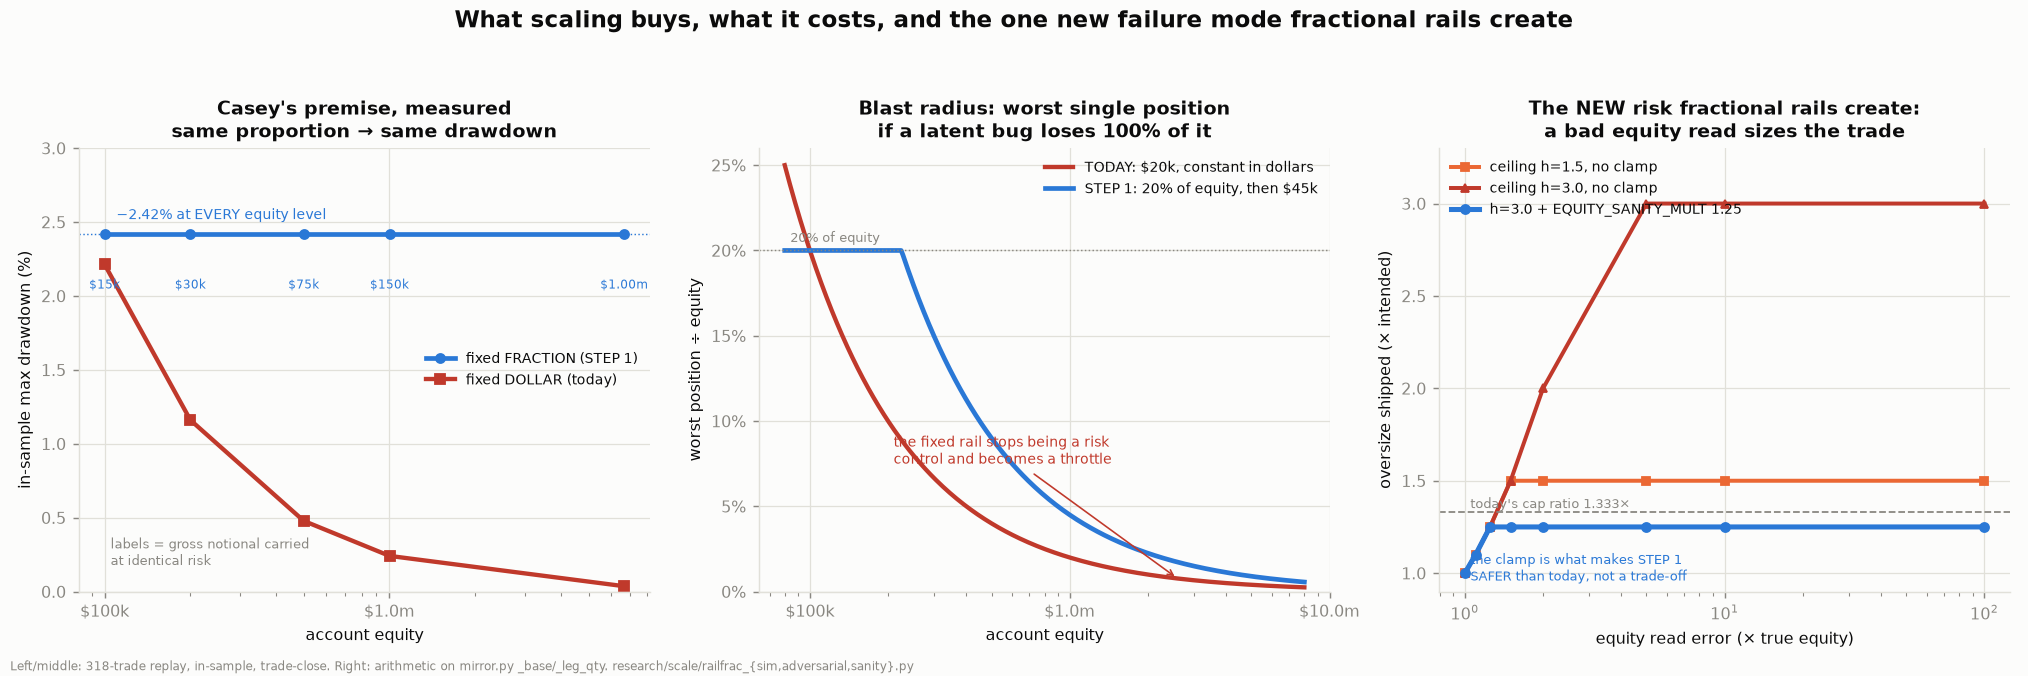
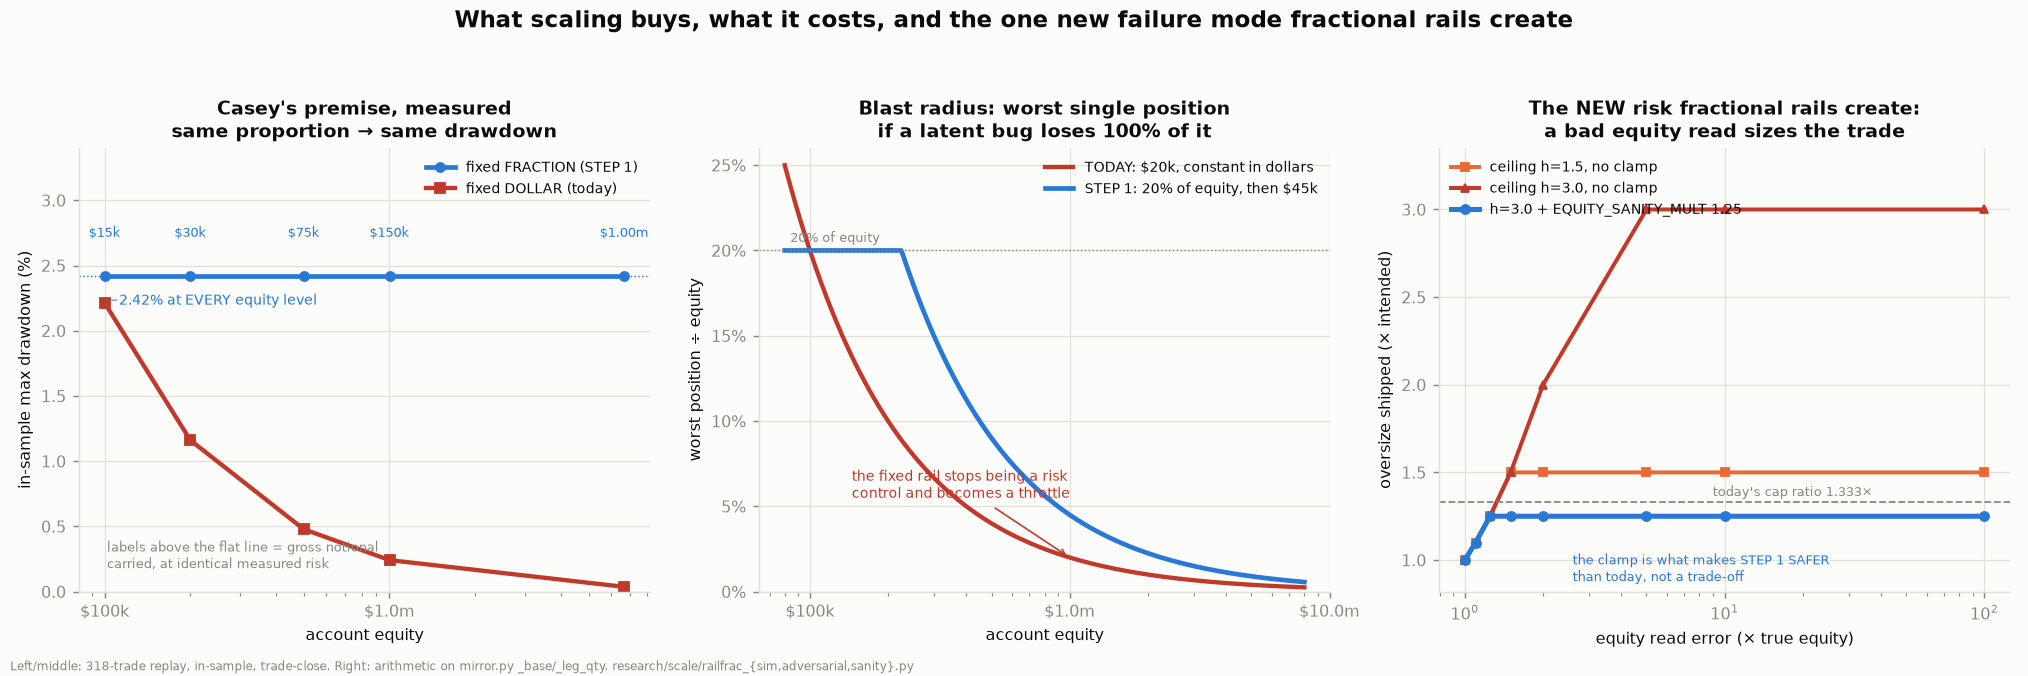
research/scale: fee-sensitivity sweep for the vol-target candidate
Landed after the previous commit was already staged - the study is still
running and writing.

Claude-Session: https://claude.ai/code/session_01UKA46pUo7nPTJWjLQb2a24

diff --git a/btc-paper-engine/research/scale/railfrac_charts.py b/btc-paper-engine/research/scale/railfrac_charts.py
@@ -64,15 +64,16 @@ a1.plot(eq, step2, color=AQUA, lw=2.0, ls="-.", label="STEP 2 (the free 2×)")
 a1.axhline(1_000_000, color=INK, lw=0.9, ls=":")
 a1.text(8.2e4, 1.08e6, "$1m of gross notional", fontsize=7.6, color=INK)
 a1.scatter([E0], [15_000], color=RED, s=46, zorder=6)
-a1.annotate("live today\n$15,000", (E0, 15_000), (1.55e5, 5_400),
+a1.annotate("live today $15,000\n(STEP 1 ships the same)", (E0, 15_000), (1.9e5, 6_200),
             fontsize=7.6, color=RED, arrowprops=dict(arrowstyle="-", color=RED, lw=0.8))
-a1.annotate("STEP 1 stops being proportional\nhere ($225k) — by design:\n"
-            "cap_clamp RED fires every entry",
-            (225_000, 45_000), (3.4e5, 1.35e5), fontsize=7.4, color=BLUE,
+a1.annotate("STEP 1 stops being proportional here\n($225k) — BY DESIGN: cap_clamp RED\n"
+            "fires on every entry from here on",
+            (225_000, 45_000), (2.9e5, 2.4e5), fontsize=7.4, color=BLUE,
             arrowprops=dict(arrowstyle="->", color=BLUE, lw=0.9))
 a1.set_title("Gross notional the rails actually deliver")
 a1.set_ylabel("gross notional deployed")
-a1.legend(frameon=False, fontsize=7.8, loc="lower right")
+a1.legend(frameon=False, fontsize=7.6, loc="upper left",
+          bbox_to_anchor=(0.005, 0.995))
 
 a2.yaxis.set_major_formatter(pct); a2.set_ylim(0, 0.34)
 a2.plot(eq, intent / eq, color=MUTED, lw=1.4, ls="--")
@@ -81,10 +82,10 @@ a2.plot(eq, today_scaled / eq, color=ORANGE, lw=2.4)
 a2.plot(eq, step1 / eq, color=BLUE, lw=2.6)
 a2.plot(eq, step2 / eq, color=AQUA, lw=2.0, ls="-.")
 a2.axhline(0.30, color=INK, lw=0.8, ls=":")
-a2.text(8.3e4, 0.307, "MAX_EXPOSURE_FRAC 0.30", fontsize=7.4, color=INK)
-a2.text(8.3e4, 0.157, "15% — today's risk", fontsize=7.4, color=BLUE)
+a2.text(1.45e6, 0.307, "MAX_EXPOSURE_FRAC 0.30", fontsize=7.4, color=INK)
+a2.text(1.45e6, 0.157, "15% — today's risk, held", fontsize=7.4, color=BLUE)
 a2.annotate("today's book stops betting\nas the account grows",
-            (1.1e6, 0.014), (7.2e5, 0.105), fontsize=7.6, color=RED,
+            (6.0e5, 0.025), (1.15e5, 0.058), fontsize=7.6, color=RED,
             arrowprops=dict(arrowstyle="->", color=RED, lw=0.9))
 a2.set_title("The same thing as RISK: gross notional ÷ equity")
 a2.set_ylabel("gross notional as a fraction of equity")
@@ -111,17 +112,17 @@ b1.plot(xe, ff_dd, color=BLUE, lw=2.6, marker="o", ms=5,
         label="fixed FRACTION (STEP 1)")
 b1.plot(xe, fd_dd, color=RED, lw=2.4, marker="s", ms=5,
         label="fixed DOLLAR (today)")
-b1.set_ylim(0, 3.0)
 b1.axhline(2.42, color=BLUE, lw=0.8, ls=":")
-b1.text(1.1e5, 2.52, "−2.42% at EVERY equity level", fontsize=7.8, color=BLUE)
-for x, y, g in zip(xe, ff_g, ff_g):
+b1.text(1.02e5, 2.20, "−2.42% at EVERY equity level", fontsize=7.8, color=BLUE)
+b1.set_ylim(0, 3.4)
+for x, g in zip(xe, ff_g):
     b1.annotate(f"${g/1e3:.0f}k" if g < 1e6 else f"${g/1e6:.2f}m",
-                (x, 2.42), (x, 2.05), fontsize=6.8, color=BLUE, ha="center")
+                (x, 2.42), (x, 2.72), fontsize=7.0, color=BLUE, ha="center")
 b1.set_title("Casey's premise, measured\nsame proportion → same drawdown")
 b1.set_ylabel("in-sample max drawdown (%)"); b1.set_xlabel("account equity")
-b1.legend(frameon=False, fontsize=7.8, loc="center right")
-b1.text(1.05e5, 0.18, "labels = gross notional carried\nat identical risk",
-        fontsize=7.0, color=MUTED)
+b1.legend(frameon=False, fontsize=7.8, loc="upper right")
+b1.text(1.02e5, 0.18, "labels above the flat line = gross notional\n"
+        "carried, at identical measured risk", fontsize=7.0, color=MUTED)
 
 A1 = ADV["A1_blast_radius"]
 b2.set_xscale("log"); b2.xaxis.set_major_formatter(usd); b2.yaxis.set_major_formatter(pct)
@@ -134,7 +135,7 @@ b2.axhline(0.20, color=MUTED, lw=0.8, ls=":")
 b2.text(8.4e4, 0.205, "20% of equity", fontsize=7.4, color=MUTED)
 b2.set_ylim(0, 0.26)
 b2.annotate("the fixed rail stops being a risk\ncontrol and becomes a throttle",
-            (2.6e6, 0.0077), (2.1e5, 0.075), fontsize=7.6, color=RED,
+            (1.0e6, 0.020), (1.45e5, 0.055), fontsize=7.6, color=RED,
             arrowprops=dict(arrowstyle="->", color=RED, lw=0.9))
 b2.set_title("Blast radius: worst single position\nif a latent bug loses 100% of it")
 b2.set_ylabel("worst position ÷ equity"); b2.set_xlabel("account equity")
@@ -150,14 +151,14 @@ b3.plot(ex, [r["h3_x"] for r in rows], color=RED, lw=2.2, marker="^", ms=4,
 b3.plot(ex, [r["h3_clamp_x"] for r in rows], color=BLUE, lw=2.8, marker="o", ms=5,
         label="h=3.0 + EQUITY_SANITY_MULT 1.25")
 b3.axhline(20_000 / 15_000, color=MUTED, lw=1.0, ls="--")
-b3.text(1.05, 1.352, "today's cap ratio 1.333×", fontsize=7.4, color=MUTED)
-b3.set_ylim(0.9, 3.3)
+b3.text(9.0, 1.365, "today's cap ratio 1.333×", fontsize=7.4, color=MUTED)
+b3.set_ylim(0.82, 3.35)
 b3.set_title("The NEW risk fractional rails create:\na bad equity read sizes the trade")
 b3.set_ylabel("oversize shipped (× intended)")
 b3.set_xlabel("equity read error (× true equity)")
 b3.legend(frameon=False, fontsize=7.6, loc="upper left")
-b3.text(1.05, 0.96, "the clamp is what makes STEP 1\nSAFER than today, not a trade-off",
-        fontsize=7.0, color=BLUE)
+b3.text(2.6, 0.88, "the clamp is what makes STEP 1 SAFER\nthan today, not a trade-off",
+        fontsize=7.2, color=BLUE)
 
 fig.suptitle("What scaling buys, what it costs, and the one new failure mode "
              "fractional rails create", fontsize=12.5, weight="bold", y=0.985)
@@ -178,8 +179,10 @@ fig, (c1, c2) = plt.subplots(1, 2, figsize=(13.6, 5.4),
 im = c1.imshow(M, cmap="RdYlGn_r", vmin=0, vmax=1, aspect="auto")
 c1.set_xticks(range(len(lv))); c1.set_xticklabels([f"{l:.1%}" for l in lv], fontsize=7.6)
 c1.set_yticks(range(len(keys)))
-c1.set_yticklabels([k.split("  ")[0] + f"\n{G[k]['gross_frac']:.0%} of equity"
-                    for k in keys], fontsize=7.4)
+ROWLAB = {0: "live today", 1: "STEP 2 (free 2×)",
+          2: "Kelly envelope", 3: "DD30 ceiling"}
+c1.set_yticklabels([f"{ROWLAB[i]}\n{G[k]['gross_frac']:.0%} of equity"
+                    for i, k in enumerate(keys)], fontsize=7.6)
 for i in range(M.shape[0]):
     for j in range(M.shape[1]):
         c1.text(j, i, f"{M[i,j]:.0%}", ha="center", va="center", fontsize=7.0,
@@ -190,7 +193,7 @@ c1.set_title("Breaker FALSE-FIRE rate: P(a clean 4.4y path\ntrips the halt), "
 c1.grid(False)
 c1.add_patch(plt.Rectangle((lv.index(0.175) - .5, -.5), 1, M.shape[0],
                            fill=False, edgecolor=BLUE, lw=2.4))
-c1.text(lv.index(0.175), M.shape[0] - 0.32, "proposed 0.175", fontsize=7.6,
+c1.text(lv.index(0.175), -0.78, "proposed 0.175", fontsize=8.0,
         color=BLUE, ha="center", weight="bold")
 plt.colorbar(im, ax=c1, fraction=0.035, pad=0.02).set_label("P(fire | no bug)",
                                                             fontsize=7.6)
@@ -200,14 +203,16 @@ bars = [("today\nbase $50k", 0.175, BLUE), ("base=equity,\nDD_HALT_PCT left\nat 
 c2.bar([b[0] for b in bars], [b[1] for b in bars],
        color=[b[2] for b in bars], width=0.6)
 c2.axhline(0.30, color=INK, lw=1.6, ls="--")
-c2.text(-0.44, 0.313, "Kelly drawdown BUDGET 30%", fontsize=8.2, color=INK, weight="bold")
+c2.text(-0.46, 0.318, "Kelly drawdown BUDGET 30%", fontsize=8.2, color=INK, weight="bold")
 c2.yaxis.set_major_formatter(pct); c2.set_ylim(0, 0.42)
 for i, b in enumerate(bars):
     c2.text(i, b[1] + 0.012, f"{b[1]:.1%}", ha="center", fontsize=9, weight="bold",
             color=b[2])
-c2.text(1, 0.205, "fires only AFTER\nthe budget is blown", ha="center", fontsize=7.8,
-        color=RED)
-c2.text(0, 0.082, "inside the budget:\nprotects it", ha="center", fontsize=7.8, color=BLUE)
+c2.text(1, 0.175, "fires only AFTER\nthe budget is blown", ha="center", fontsize=8.0,
+        color="white", weight="bold")
+for i in (0, 2):
+    c2.text(i, 0.072, "inside the budget:\nprotects it", ha="center", fontsize=8.0,
+            color="white", weight="bold")
 c2.set_title("Where the drawdown breaker actually sits,\nas a % of the REAL account")
 c2.set_ylabel("drawdown that halts the book")
 
@@ -216,7 +221,7 @@ fig.suptitle("Flipping the base to equity silently DOUBLES the loss the breakers
 stamp(fig, "Bootstrap: kelly.dd_prob, 2000 draws, seed 20260804, stationary block 10, "
            "318 exit-step returns. Trade-close — MTM runs 1-4pp deeper (KELLY.md). "
            "research/scale/railfrac_halt.py")
-fig.tight_layout(rect=[0, 0.016, 1, 0.94])
+fig.tight_layout(rect=[0, 0.03, 1, 0.94])
 fig.savefig(os.path.join(HERE, "railfrac_fig3_safety.png"))
 plt.close(fig)
 
@@ -239,32 +244,36 @@ d1.barh(y + 0.2, need_1m, 0.38, color=[r[2] for r in regs],
 d1.set_yticks(y); d1.set_yticklabels(labs, fontsize=8.2)
 d1.set_xscale("log"); d1.xaxis.set_major_formatter(usd)
 d1.axvline(E0, color=INK, lw=2.0)
-d1.text(E0 * 1.12, len(regs) - 0.42, f"equity today\n${E0:,.0f}", fontsize=8.0,
-        color=INK, weight="bold")
+d1.text(E0 * 0.60, -0.92, f"equity today\n${E0:,.0f}", fontsize=8.2,
+        color=INK, weight="bold", ha="center")
 for i, (v, w) in enumerate(zip(need_100k, need_1m)):
     d1.text(v * 1.08, i - 0.2, f"${v/1e3:.0f}k", fontsize=7.2, va="center", color=MUTED)
     d1.text(w * 1.08, i + 0.2, f"${w/1e6:.2f}m", fontsize=7.4, va="center", color=INK)
 d1.set_xlabel("equity required")
 d1.set_title("Equity required for Casey's targets.\nCandidate B moves NONE of these bars.")
-d1.legend(frameon=False, fontsize=7.8, loc="lower right")
+d1.legend(frameon=False, fontsize=7.8, loc="center right")
 d1.invert_yaxis()
 
-what = [("gross notional the rails deliver\nat today's equity", "$15,000", "$30,017", AQUA),
+what = [("gross notional the rails deliver at today's equity", "$15,000", "$30,017", AQUA),
         ("does notional follow equity?", "no — flat", "yes, to $225k", BLUE),
-        ("blast radius as % of equity", "20% → 0.3%\n(decays)", "20% (constant)", BLUE),
+        ("blast radius as % of equity", "20% → 0.3% (decays)", "20% (constant)", BLUE),
         ("bad equity read → oversize", "1.00× (immune)", "1.25× (clamped)", ORANGE),
         ("worst configurable exposure", "UNBOUNDED", "0.40× equity", BLUE),
         ("equity needed for $1m gross", "$6.67m", "$3.33m", MUTED)]
 d2.axis("off")
-d2.text(0.02, 0.965, "TODAY", fontsize=9.6, weight="bold", color=RED, transform=d2.transAxes)
-d2.text(0.56, 0.965, "AFTER STEP 1 + 2", fontsize=9.6, weight="bold", color=BLUE,
+d2.text(0.02, 0.945, "TODAY", fontsize=9.4, weight="bold", color=RED, transform=d2.transAxes)
+d2.text(0.58, 0.945, "AFTER STEP 1 + 2", fontsize=9.4, weight="bold", color=BLUE,
         transform=d2.transAxes)
+d2.plot([0.01, 0.99], [0.925] * 2, color=INK, lw=1.0, transform=d2.transAxes,
+        clip_on=False)
 for i, (lab, a, b, col) in enumerate(what):
-    yy = 0.885 - i * 0.152
-    d2.text(0.02, yy + 0.052, lab, fontsize=7.9, color=MUTED, transform=d2.transAxes)
-    d2.text(0.02, yy, a, fontsize=9.2, color=INK, transform=d2.transAxes)
-    d2.text(0.56, yy, b, fontsize=9.2, color=col, weight="bold", transform=d2.transAxes)
-    d2.plot([0.01, 0.99], [yy - 0.038] * 2, color=GRID, lw=0.8,
+    top = 0.885 - i * 0.150
+    d2.text(0.02, top, lab, fontsize=7.8, color=MUTED, transform=d2.transAxes)
+    d2.text(0.02, top - 0.060, a, fontsize=9.0, color=INK, transform=d2.transAxes,
+            linespacing=1.25)
+    d2.text(0.58, top - 0.060, b, fontsize=9.0, color=col, weight="bold",
+            transform=d2.transAxes, linespacing=1.25)
+    d2.plot([0.01, 0.99], [top - 0.098] * 2, color=GRID, lw=0.8,
             transform=d2.transAxes, clip_on=False)
 d2.set_title("The ledger of the change", fontsize=10.5, loc="left")
 
@@ -274,7 +283,7 @@ fig.suptitle("$1m of notional is a CAPITAL question, not a rails question. "
 stamp(fig, "Multiples from research/scale/{fee_axis,envelope}.json (Phase 1) and "
            "railfrac_proposal.json. Kelly envelope is IN-SAMPLE on the selection "
            "window — an upper bound on honest size, not a forecast.")
-fig.tight_layout(rect=[0, 0.016, 1, 0.93])
+fig.tight_layout(rect=[0, 0.035, 1, 0.93])
 fig.savefig(os.path.join(HERE, "railfrac_fig4_the_answer.png"))
 plt.close(fig)
 print("wrote railfrac_fig1_the_break.png, fig2_invariance_and_price.png, "

diff --git a/btc-paper-engine/research/scale/candA_feesens.py b/btc-paper-engine/research/scale/candA_feesens.py
@@ -1,0 +1,102 @@
+"""CANDIDATE A - fee-basis sensitivity. Everything else ran at the REGISTERED
+objective (TradeCfg.taker_fee_bps 6.0 => 12.00 bps round trip). RESEARCH_FEES.md
+MEASURED 8.64 live (4.32/side). Does the verdict move? Both arms re-run at
+4.32 and at 2.88 (fully-maker ceiling) through TradeCfg, which core.py:261/337
+actually read."""
+import csv, json, os, sys
+from dataclasses import replace
+import numpy as np
+
+HERE = os.path.dirname(os.path.abspath(__file__))
+BACKEND = os.path.abspath(os.path.join(HERE, "..", "..", "backend"))
+sys.path.insert(0, BACKEND)
+from app.engine.core import Bar, BookCfg                    # noqa: E402
+from app.engine.replay import run_replay                    # noqa: E402
+from app.config import RESEARCH_SIGNAL, RESEARCH_TRADE      # noqa: E402
+
+BARS = os.path.join(BACKEND, "tests", "fixtures", "bars_4h_btcusd.csv")
+SIZ = {"pullback": 2.5, "trend": 5.0}; W = {"pullback": 0.75, "trend": 0.25}
+BLEND_LEV, EQUITY = 1.5, 100_055.0
+K_LIVE = 15_000.0 / (BLEND_LEV * EQUITY); HOLDOUT = 1719792000
+DD_LIMIT, P_LIMIT, DRAWS, SEED = 0.30, 0.10, 2000, 20260804
+
+bars = [Bar(ts=int(r["ts_open_unix"]), open=float(r["open"]), high=float(r["high"]),
+            low=float(r["low"]), close=float(r["close"]), volume=float(r["volume"]))
+        for r in csv.DictReader(open(BARS))]
+
+
+def run_leg(leg, fee):
+    tc = replace(RESEARCH_TRADE, stop_atr=SIZ[leg], taker_fee_bps=fee)
+    cfg = (BookCfg(name="P", sizing="fixed", strategy="pullback", leverage=1.0,
+                   cap=1.0, dd_halt=0.30) if leg == "pullback" else
+           BookCfg(name="T", sizing="fixed", strategy="donchian", trail_atr=5.0,
+                   leverage=1.0, cap=1.0, dd_halt=0.50))
+    bk = run_replay(bars, [cfg], RESEARCH_SIGNAL, tc, cash_apy=0.0).books[cfg.name]
+    return [dict(exit_ts=t.exit_ts, s=tc.stop_atr * t.atr_at_entry / t.entry_price,
+                 gross=(1.0 if t.side == "L" else -1.0) * (t.exit_price / t.entry_price - 1),
+                 fee=t.fees_usd / t.notional) for t in bk.trades]
+
+
+def boot_idx(n, draws, rng, mb=10):
+    p = 1.0 / mb
+    idx = np.empty((draws, n), dtype=np.int64); idx[:, 0] = rng.integers(0, n, draws)
+    rs = rng.random((draws, n)) < p; jp = rng.integers(0, n, (draws, n))
+    for i in range(1, n):
+        idx[:, i] = np.where(rs[:, i], jp[:, i], (idx[:, i - 1] + 1) % n)
+    return idx
+
+
+def ddp(st, k, idx):
+    x = 1.0 + k * st[idx]; ruin = (x <= 0).any(axis=1)
+    nav = np.cumprod(np.where(x <= 0, 1e-12, x), axis=1)
+    mdd = (nav / np.maximum.accumulate(nav, axis=1) - 1.0).min(axis=1)
+    return float(((mdd < -DD_LIMIT) | ruin).mean())
+
+
+def kmax(st, idx, hi=6.0):
+    lo = 0.0
+    if ddp(st, hi, idx) <= P_LIMIT:
+        return hi
+    for _ in range(40):
+        m = (lo + hi) / 2
+        lo, hi = (m, hi) if ddp(st, m, idx) <= P_LIMIT else (lo, m)
+    return lo
+
+
+def build(rows, beta, cap, r0, sbar, t0=None):
+    e = []
+    for leg, rr in rows.items():
+        for r in rr:
+            su = (r["s"] ** beta) * (sbar[leg] ** (1 - beta))
+            nf = min(r0[leg] / su, cap)
+            e.append((r["exit_ts"], BLEND_LEV * W[leg] * nf * (r["gross"] - r["fee"]),
+                      BLEND_LEV * W[leg] * nf))
+    e.sort(key=lambda z: z[0]); e = [z for z in e if t0 is None or z[0] >= t0]
+    return np.array([z[1] for z in e]), np.array([z[2] for z in e])
+
+
+out = {}
+for fee, lab in ((6.00, "12.00_registered"), (4.32, "8.64_measured"), (1.44, "2.88_full_maker")):
+    rows = {l: run_leg(l, fee) for l in ("pullback", "trend")}
+    sbar = {l: float(np.mean([r["s"] for r in rows[l]])) for l in rows}
+    out[lab] = {}
+    for wname, t0 in (("full", None), ("holdout", HOLDOUT)):
+        ref, _ = build(rows, 0.0, 1.0, sbar, sbar, t0)
+        idx = boot_idx(len(ref), DRAWS, np.random.default_rng(SEED + 1))
+        sf, nf_ = build(rows, 0.0, 1.0, sbar, sbar, t0)
+        sv, nv = build(rows, 1.0, 99.0, sbar, sbar, t0)
+        kf, kv = kmax(sf, idx), kmax(sv, idx)
+        out[lab][wname] = dict(
+            k_fixed=kf, k_vt=kv, k_ratio=kv / kf,
+            mean_notional_ratio=float((nv * kv).mean() / (nf_ * kf).mean()),
+            max_notional_ratio=float((nv * kv).max() / (nf_ * kf).max()),
+            sr_fixed=float(sf.mean() / sf.std()), sr_vt=float(sv.mean() / sv.std()),
+            sr_ratio=float((sv.mean() / sv.std()) / (sf.mean() / sf.std())),
+            mean_notional_bonus_uncapped=float(nv.mean() / nf_.mean()))
+        v = out[lab][wname]
+        print(f"fee {lab:18s} {wname:8s} k_ratio={v['k_ratio']:.3f} "
+              f"SR_ratio={v['sr_ratio']:.3f} mean_notl={v['mean_notional_ratio']:.3f}x "
+              f"max_notl={v['max_notional_ratio']:.3f}x "
+              f"(raw notional bonus {v['mean_notional_bonus_uncapped']:.4f}x)")
+json.dump(out, open(os.path.join(HERE, "candA_feesens.json"), "w"), default=float)
+print("wrote candA_feesens.json")
